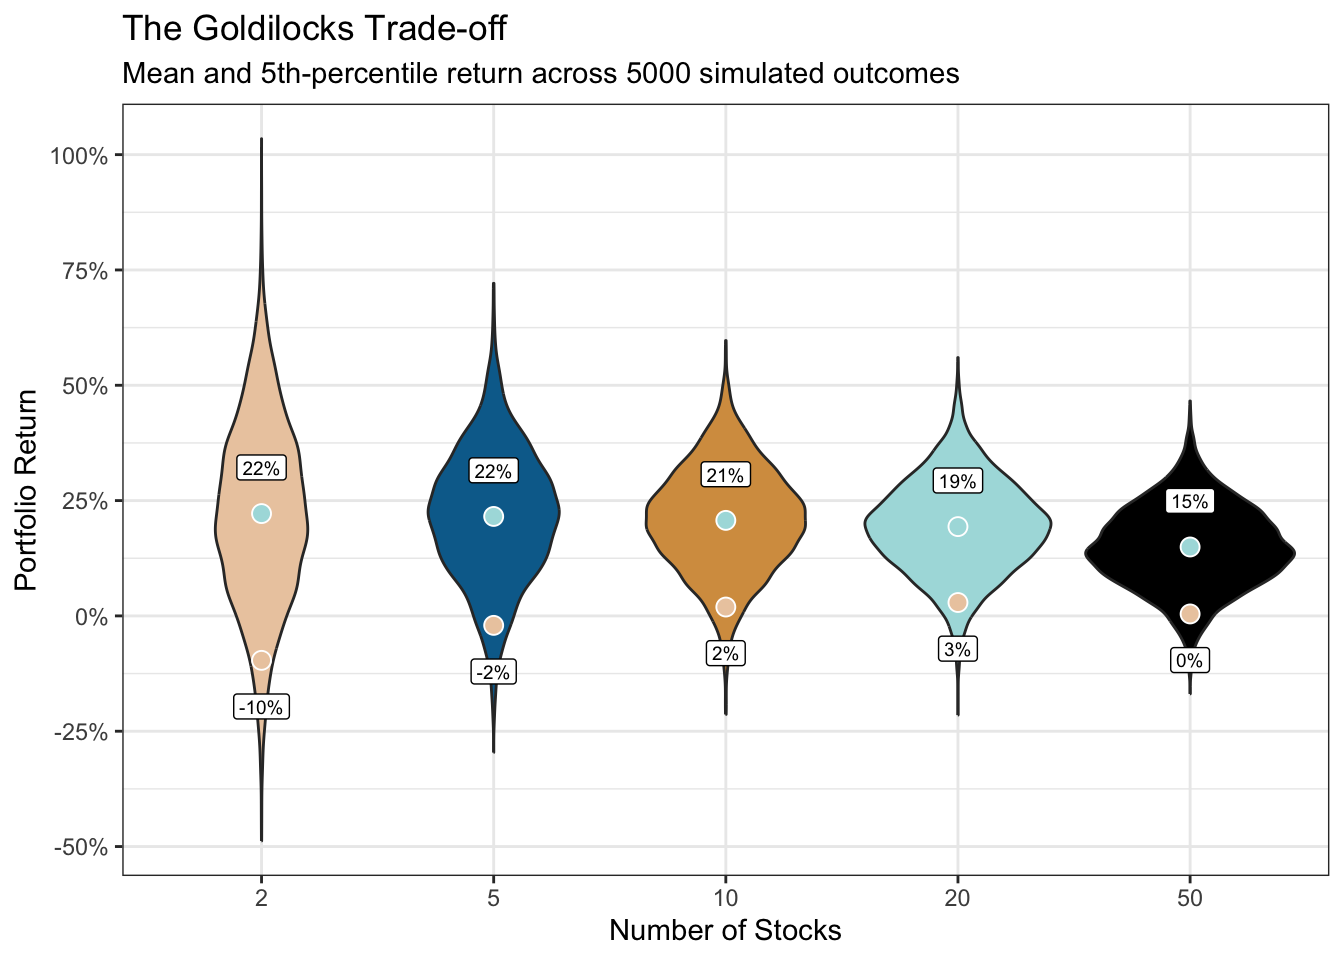
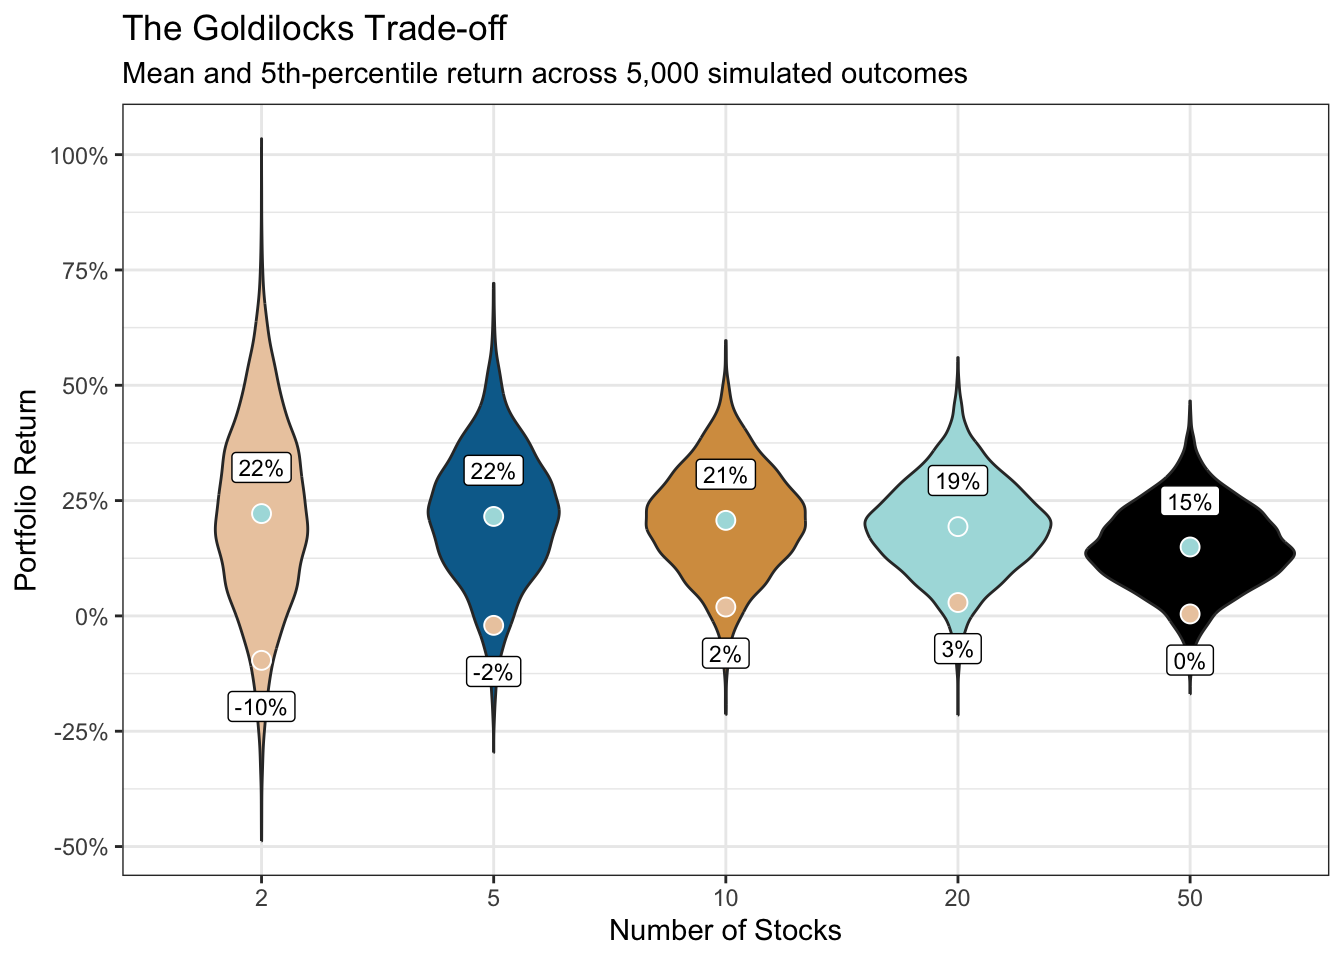
Project Goldilocks cosmetics

diff --git a/_site/project/goldilocks/index.html b/_site/project/goldilocks/index.html
@@ -458,7 +458,7 @@ pre > code.sourceCode > span > a:first-child::before { text-decoration: underlin
 </div>
 </div>
 <p>Suppose some extensive research — or perhaps a cool machine learning model — produces 50 candidate stocks ranked from strongest to weakest. To keep things deliberately artificial, I’ll give the highest-ranked stock an expected return of 22%, declining gradually to 8% for the fiftieth.</p>
-<p>These aren’t forecasts. They’re simply a convenient way of representing diminishing confidence as we move down the list.</p>
+<p>These numbers are deliberately artificial. I assume the ranking is informative: higher-ranked stocks really do have higher expected returns. Each portfolio holds its stocks in equal proportions, with independent stock-specific shocks and a market shock shared by every holding.</p>
 <div class="cell">
 <div class="code-copy-outer-scaffold"><div class="sourceCode" id="cb3"><pre class="downlit sourceCode r code-with-copy"><code class="sourceCode R"><span><span class="va">stock_data</span> <span class="op">&lt;-</span> <span class="fu"><a href="https://tibble.tidyverse.org/reference/tibble.html">tibble</a></span><span class="op">(</span></span>
 <span>  stock <span class="op">=</span> <span class="fu"><a href="https://rdrr.io/r/base/sprintf.html">sprintf</a></span><span class="op">(</span><span class="st">"Stock %02d"</span>, <span class="fl">1</span><span class="op">:</span><span class="fl">50</span><span class="op">)</span>,</span>
@@ -520,12 +520,11 @@ pre > code.sourceCode > span > a:first-child::before { text-decoration: underlin
 <span>  <span class="fu"><a href="https://dplyr.tidyverse.org/reference/summarise.html">summarise</a></span><span class="op">(</span></span>
 <span>    mean_return <span class="op">=</span> <span class="fu"><a href="https://rdrr.io/r/base/mean.html">mean</a></span><span class="op">(</span><span class="va">portfolio_return</span><span class="op">)</span>,</span>
 <span>    p05 <span class="op">=</span> <span class="fu"><a href="https://rdrr.io/r/stats/quantile.html">quantile</a></span><span class="op">(</span><span class="va">portfolio_return</span>, <span class="fl">0.05</span><span class="op">)</span>,</span>
-<span>    p95 <span class="op">=</span> <span class="fu"><a href="https://rdrr.io/r/stats/quantile.html">quantile</a></span><span class="op">(</span><span class="va">portfolio_return</span>, <span class="fl">0.95</span><span class="op">)</span>,</span>
 <span>    .by <span class="op">=</span> <span class="va">portfolio_size</span></span>
 <span>  <span class="op">)</span></span></code></pre></div><button title="Copy to Clipboard" class="code-copy-button"><i class="bi"></i></button></div>
 </div>
 <div class="cell">
-<details class="code-fold"><summary>Simlated outcomes</summary><div class="code-copy-outer-scaffold"><div class="sourceCode" id="cb6"><pre class="downlit sourceCode r code-with-copy"><code class="sourceCode R"><span><span class="va">portfolios</span> <span class="op">|&gt;</span></span>
+<details class="code-fold"><summary>Simulated outcomes</summary><div class="code-copy-outer-scaffold"><div class="sourceCode" id="cb6"><pre class="downlit sourceCode r code-with-copy"><code class="sourceCode R"><span><span class="va">portfolios</span> <span class="op">|&gt;</span></span>
 <span>  <span class="fu"><a href="https://ggplot2.tidyverse.org/reference/ggplot.html">ggplot</a></span><span class="op">(</span></span>
 <span>    <span class="fu"><a href="https://ggplot2.tidyverse.org/reference/aes.html">aes</a></span><span class="op">(</span></span>
 <span>      <span class="va">portfolio_size</span>,</span>
@@ -560,7 +559,7 @@ pre > code.sourceCode > span > a:first-child::before { text-decoration: underlin
 <span>    <span class="op">)</span>,</span>
 <span>    data <span class="op">=</span> <span class="va">portfolio_summary</span>,</span>
 <span>    nudge_y <span class="op">=</span> <span class="fl">0.1</span>,</span>
-<span>    size <span class="op">=</span> <span class="fl">2.5</span></span>
+<span>    size <span class="op">=</span> <span class="fl">3</span></span>
 <span>  <span class="op">)</span> <span class="op">+</span></span>
 <span>  <span class="fu"><a href="https://ggplot2.tidyverse.org/reference/geom_text.html">geom_label</a></span><span class="op">(</span></span>
 <span>    <span class="fu"><a href="https://ggplot2.tidyverse.org/reference/aes.html">aes</a></span><span class="op">(</span></span>
@@ -569,7 +568,7 @@ pre > code.sourceCode > span > a:first-child::before { text-decoration: underlin
 <span>    <span class="op">)</span>,</span>
 <span>    data <span class="op">=</span> <span class="va">portfolio_summary</span>,</span>
 <span>    nudge_y <span class="op">=</span> <span class="op">-</span><span class="fl">0.1</span>,</span>
-<span>    size <span class="op">=</span> <span class="fl">2.5</span></span>
+<span>    size <span class="op">=</span> <span class="fl">3</span></span>
 <span>  <span class="op">)</span> <span class="op">+</span></span>
 <span>  <span class="fu"><a href="https://ggplot2.tidyverse.org/reference/scale_continuous.html">scale_y_continuous</a></span><span class="op">(</span></span>
 <span>    labels <span class="op">=</span> <span class="fu"><a href="https://scales.r-lib.org/reference/label_percent.html">label_percent</a></span><span class="op">(</span><span class="op">)</span>,</span>
@@ -579,7 +578,7 @@ pre > code.sourceCode > span > a:first-child::before { text-decoration: underlin
 <span>  <span class="fu"><a href="https://ggplot2.tidyverse.org/reference/labs.html">labs</a></span><span class="op">(</span></span>
 <span>    title <span class="op">=</span> <span class="st">"The Goldilocks Trade-off"</span>,</span>
 <span>    subtitle <span class="op">=</span> <span class="fu"><a href="https://glue.tidyverse.org/reference/glue.html">glue</a></span><span class="op">(</span></span>
-<span>      <span class="st">"Mean and 5th-percentile return across {n_sims} simulated outcomes"</span></span>
+<span>      <span class="st">"Mean and 5th-percentile return across {label_comma()(n_sims)} simulated outcomes"</span></span>
 <span>    <span class="op">)</span>,</span>
 <span>    x <span class="op">=</span> <span class="st">"Number of Stocks"</span>,</span>
 <span>    y <span class="op">=</span> <span class="st">"Portfolio Return"</span></span>
@@ -591,6 +590,7 @@ pre > code.sourceCode > span > a:first-child::before { text-decoration: underlin
 </div>
 </div>
 </div>
+<p>Upper dots show mean returns — lower dots show fifth percentiles, with 5% of simulated outcomes falling below them. Of the five portfolio sizes tested, 20 stocks has the highest fifth-percentile return under these assumptions.</p>
 <p>And there’s Goldilocks.</p>
 <p>With only a couple of stocks, the highest-conviction ideas dominate the portfolio — but so does stock-specific risk. Adding stocks initially makes a substantial difference because those individual surprises increasingly cancel one another out.</p>
 <p>Eventually the benefit diminishes. Market-wide uncertainty remains, while every additional holding reaches further down the ranked list and dilutes its expected return.</p>
@@ -641,11 +641,11 @@ pre > code.sourceCode > span > a:first-child::before { text-decoration: underlin
 </tr>
 <tr class="odd">
 <td style="text-align: left;">scales</td>
-<td style="text-align: left;">breaks_extended[1], label_percent[2], percent[2]</td>
+<td style="text-align: left;">breaks_extended[1], label_comma[1], label_percent[2], percent[2]</td>
 </tr>
 <tr class="even">
 <td style="text-align: left;">stats</td>
-<td style="text-align: left;">quantile[2], rnorm[2]</td>
+<td style="text-align: left;">quantile[1], rnorm[2]</td>
 </tr>
 <tr class="odd">
 <td style="text-align: left;">tibble</td>
